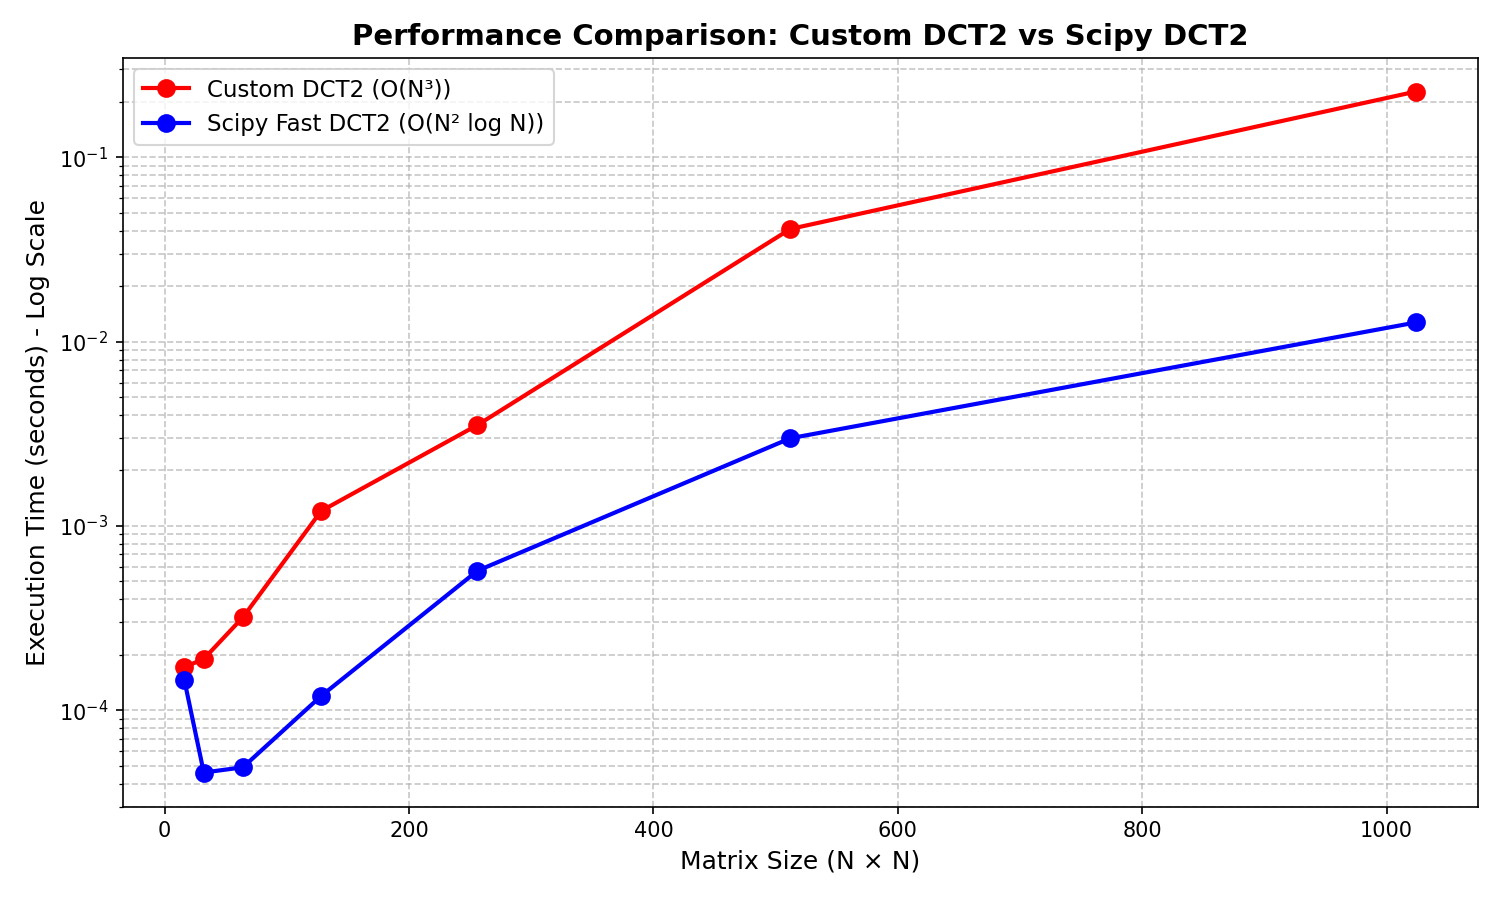
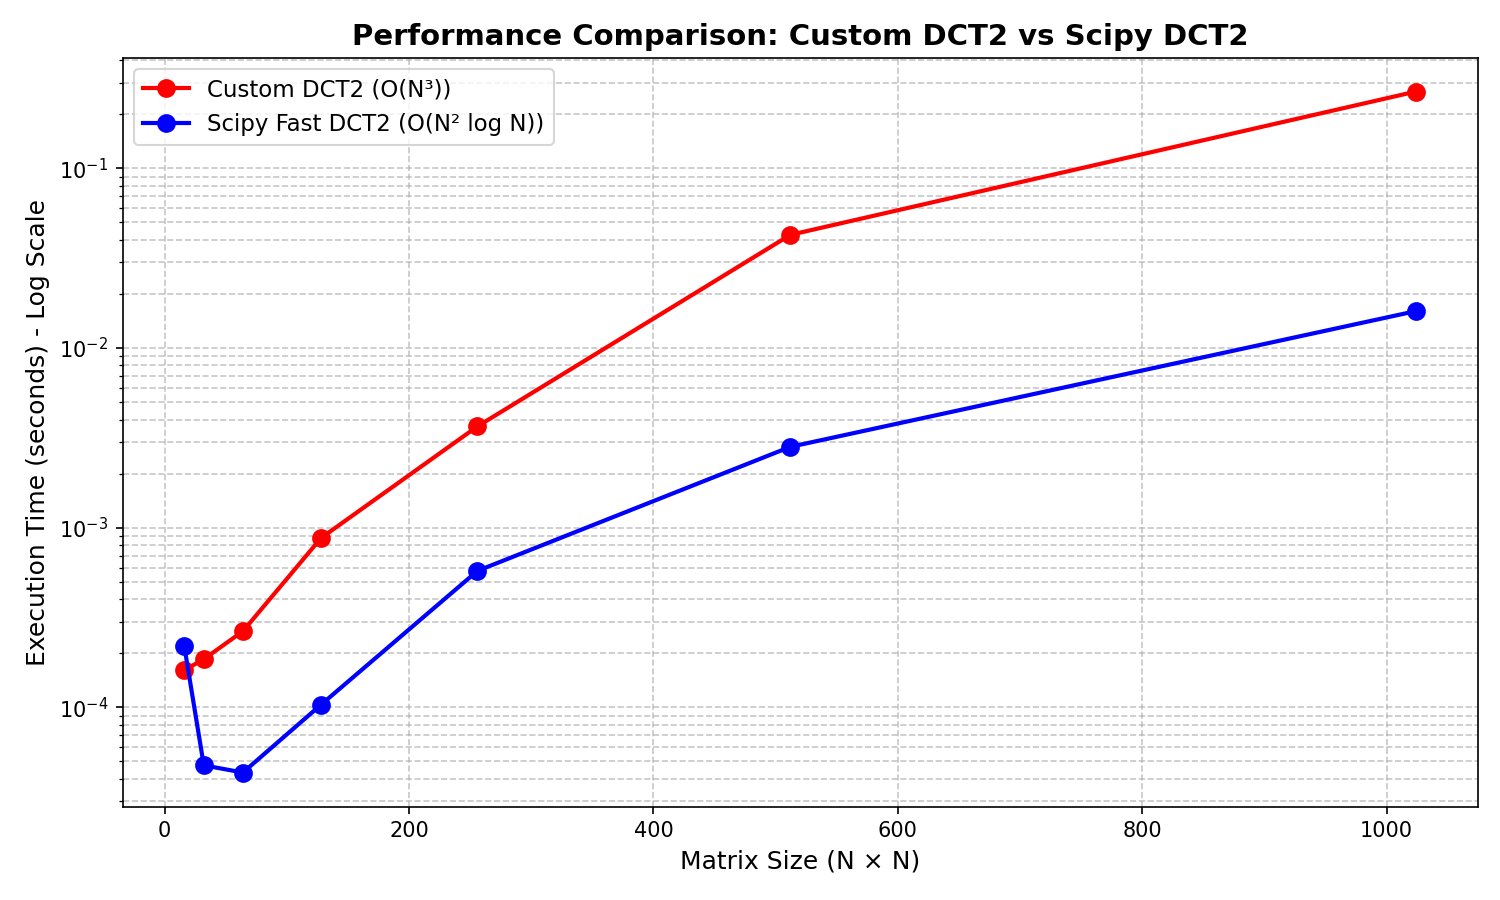
benchmark test update

Changed region(s): [[0.0307, 0.1244, 0.9813, 0.8711], [0.368, 0.0622, 0.9813, 0.1244]]

diff --git a/benchmark.py b/benchmark.py
@@ -1,6 +1,7 @@
 import numpy as np
 import time
 import matplotlib.pyplot as plt
+import csv
 from dct import custom_dct2, fast_dct2
 
 def run_performance_test():
@@ -58,6 +59,28 @@ def run_performance_test():
     print("\nSaving plot to 'performance_comparison.png'...")
     plt.savefig('performance_comparison.png', dpi=150)
     plt.show()
+    
+    # Save results to CSV
+    save_benchmark_to_csv(custom_sizes, custom_times, fast_times)
+
+def save_benchmark_to_csv(sizes, custom_times, fast_times):
+    """
+    Save benchmark results to CSV file with columns:
+    Matrix Size, Custom DCT (ms), Fast DCT (ms), Ratio
+    """
+    filename = 'benchmark_results.csv'
+    
+    with open(filename, 'w', newline='') as csvfile:
+        writer = csv.writer(csvfile)
+        writer.writerow(['Matrix Size (N)', 'Custom DCT (ms)', 'Fast DCT (ms)', 'Ratio'])
+        
+        for i, size in enumerate(sizes):
+            custom_ms = custom_times[i] * 1000
+            fast_ms = fast_times[i] * 1000
+            ratio = custom_ms / fast_ms if fast_ms > 0 else 0
+            writer.writerow([size, f'{custom_ms:.3f}', f'{fast_ms:.3f}', f'{ratio:.2f}x'])
+    
+    print(f"CSV saved to '{filename}'")
 
 if __name__ == "__main__":
     run_performance_test()
